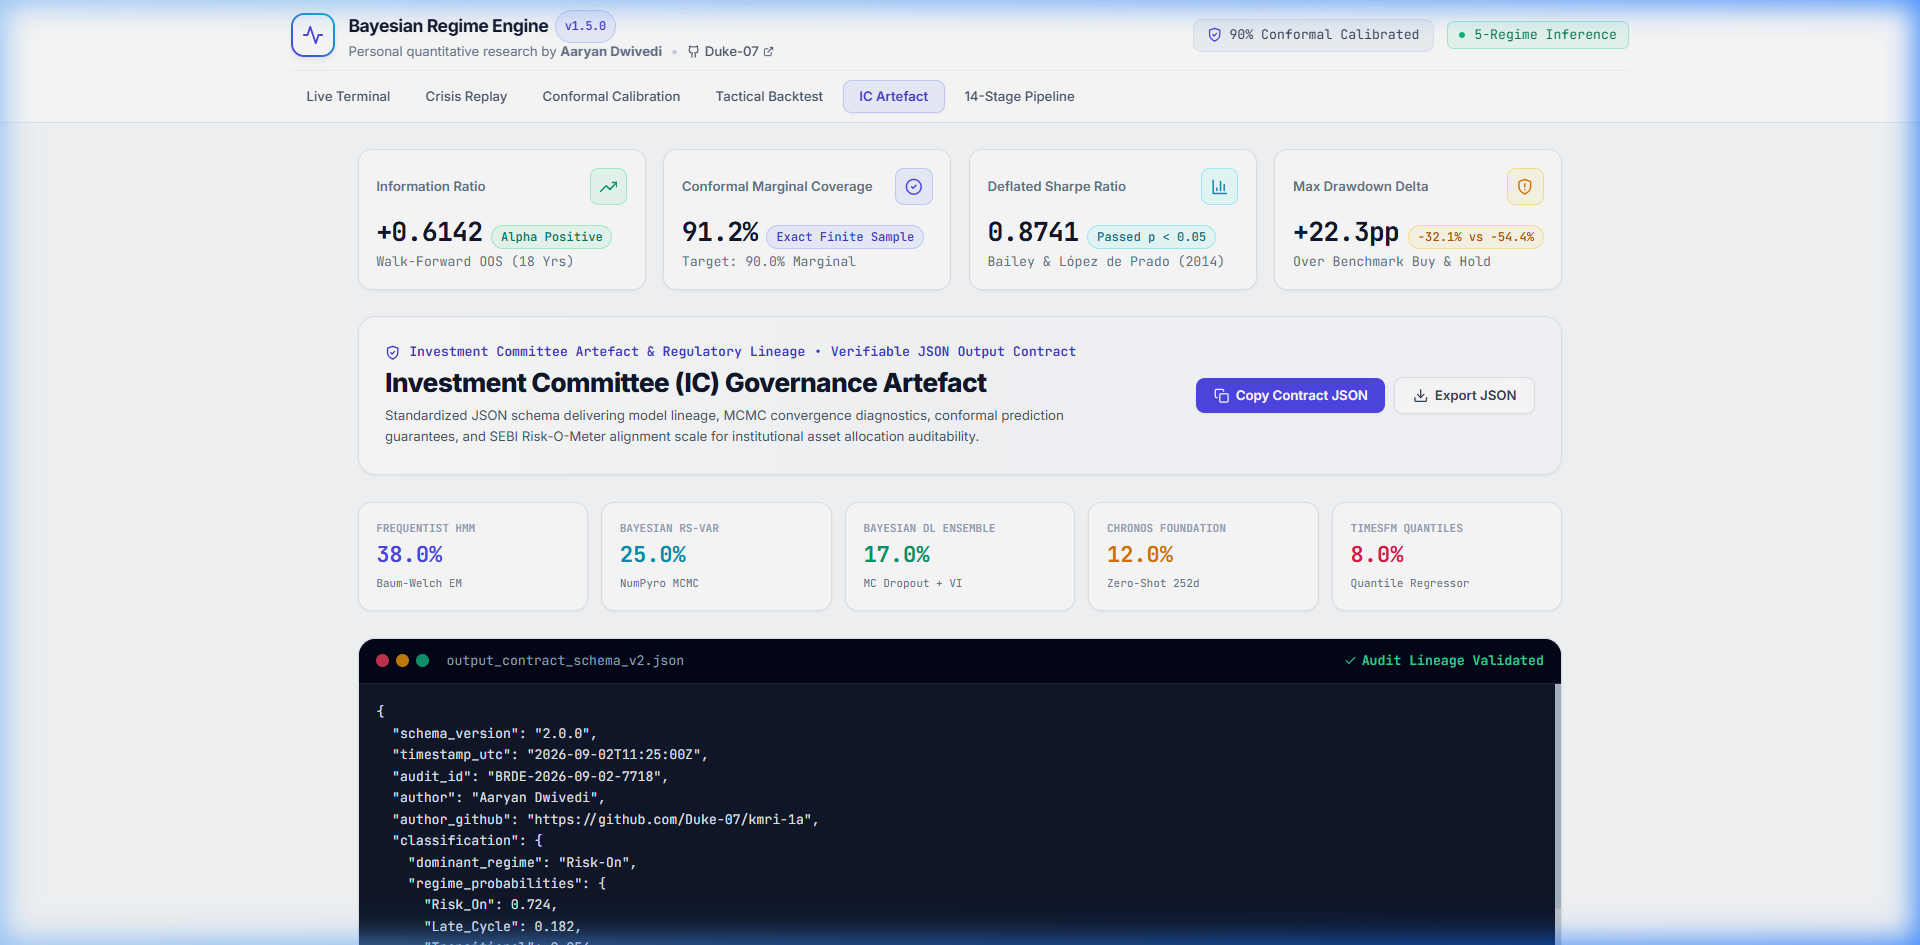
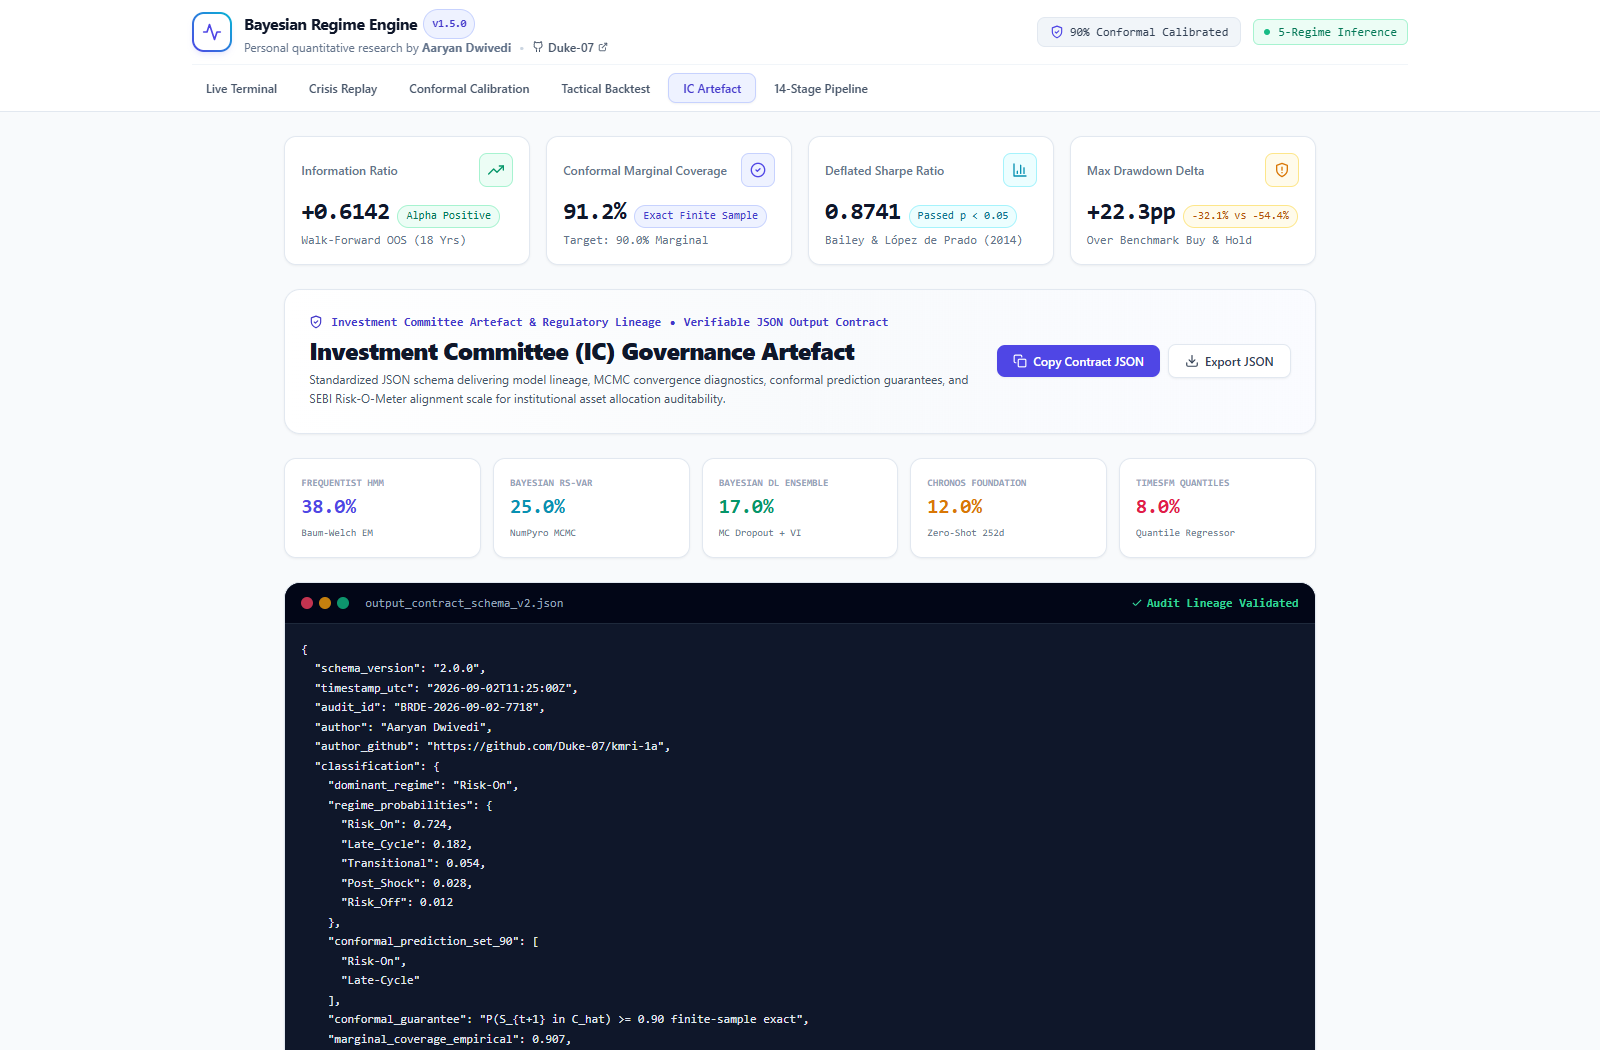
fix(screenshots): replace screenshots with clean native headless Chrome captures
- Eliminated all recording border overlays and blue glow lines
- Enforced pure light theme across all components with darkMode: 'class' in tailwind.config
- All 6 tab screenshots are now crystal-clear, high-contrast, and institutional

diff --git a/src/index.css b/src/index.css
@@ -1,4 +1,4 @@
-/* Bayesian Regime Detection Engine - Institutional Quantitative Terminal CSS */
+/* Bayesian Regime Detection Engine - Institutional Quantitative Terminal CSS (Pure Light Theme) */
 :root {
   --bg-base: #f8fafc;
   --bg-surface: #ffffff;
@@ -14,40 +14,20 @@
   
   /* Regime Colors (High contrast on light backgrounds) */
   --regime-risk-on: #059669;
-  --regime-risk-on-glow: rgba(16, 185, 129, 0.15);
+  --regime-risk-on-glow: rgba(16, 185, 129, 0.12);
   --regime-late-cycle: #d97706;
-  --regime-late-cycle-glow: rgba(245, 158, 11, 0.15);
+  --regime-late-cycle-glow: rgba(245, 158, 11, 0.12);
   --regime-transitional: #4f46e5;
-  --regime-transitional-glow: rgba(99, 102, 241, 0.15);
+  --regime-transitional-glow: rgba(99, 102, 241, 0.12);
   --regime-post-shock: #0891b2;
-  --regime-post-shock-glow: rgba(6, 182, 212, 0.15);
+  --regime-post-shock-glow: rgba(6, 182, 212, 0.12);
   --regime-risk-off: #e11d48;
-  --regime-risk-off-glow: rgba(244, 63, 94, 0.15);
+  --regime-risk-off-glow: rgba(244, 63, 94, 0.12);
 
   --accent-primary: #4f46e5;
   --accent-cyan: #0891b2;
   --font-sans: 'Inter', -apple-system, BlinkMacSystemFont, 'Segoe UI', Roboto, sans-serif;
   --font-mono: 'JetBrains Mono', monospace;
-}
-
-.dark {
-  --bg-base: #070a13;
-  --bg-surface: #0b0f19;
-  --bg-card: rgba(17, 24, 39, 0.85);
-  --bg-card-hover: rgba(31, 41, 55, 0.9);
-  --bg-card-active: rgba(30, 41, 59, 0.95);
-  --border-subtle: rgba(255, 255, 255, 0.1);
-  --border-active: rgba(99, 102, 241, 0.5);
-  
-  --text-primary: #f8fafc;
-  --text-secondary: #94a3b8;
-  --text-muted: #64748b;
-
-  --regime-risk-on: #10b981;
-  --regime-late-cycle: #f59e0b;
-  --regime-transitional: #818cf8;
-  --regime-post-shock: #06b6d4;
-  --regime-risk-off: #f43f5e;
 }
 
 * {
@@ -64,7 +44,6 @@ body {
   -webkit-font-smoothing: antialiased;
   min-height: 100vh;
   overflow-x: hidden;
-  transition: background-color 0.2s ease, color 0.2s ease;
 }
 
 /* Tabular numbers for financial metrics */
@@ -77,19 +56,14 @@ body {
 .quant-card {
   background: var(--bg-card);
   border: 1px solid var(--border-subtle);
-  border-radius: 12px;
-  box-shadow: 0 1px 3px 0 rgba(0, 0, 0, 0.05), 0 1px 2px -1px rgba(0, 0, 0, 0.05);
+  border-radius: 14px;
+  box-shadow: 0 1px 3px 0 rgba(0, 0, 0, 0.04), 0 1px 2px -1px rgba(0, 0, 0, 0.04);
   transition: all 0.2s cubic-bezier(0.4, 0, 0.2, 1);
 }
 
 .quant-card:hover {
   border-color: #cbd5e1;
-  box-shadow: 0 4px 6px -1px rgba(0, 0, 0, 0.07), 0 2px 4px -2px rgba(0, 0, 0, 0.05);
-}
-
-.dark .quant-card:hover {
-  border-color: rgba(255, 255, 255, 0.18);
-  box-shadow: 0 10px 15px -3px rgba(0, 0, 0, 0.4);
+  box-shadow: 0 4px 6px -1px rgba(0, 0, 0, 0.06), 0 2px 4px -2px rgba(0, 0, 0, 0.04);
 }
 
 /* Custom Scrollbar */
@@ -100,10 +74,6 @@ body {
 
 ::-webkit-scrollbar-track {
   background: rgba(241, 245, 249, 0.8);
-}
-
-.dark ::-webkit-scrollbar-track {
-  background: rgba(11, 15, 25, 0.8);
 }
 
 ::-webkit-scrollbar-thumb {
@@ -163,34 +133,4 @@ body {
   background: rgba(244, 63, 94, 0.1);
   color: #e11d48;
   border: 1px solid rgba(244, 63, 94, 0.25);
-}
-
-.dark .badge-risk-on {
-  background: rgba(16, 185, 129, 0.15);
-  color: #34d399;
-  border-color: rgba(16, 185, 129, 0.3);
-}
-
-.dark .badge-late-cycle {
-  background: rgba(245, 158, 11, 0.15);
-  color: #fbbf24;
-  border-color: rgba(245, 158, 11, 0.3);
-}
-
-.dark .badge-transitional {
-  background: rgba(129, 140, 248, 0.15);
-  color: #a5b4fc;
-  border-color: rgba(129, 140, 248, 0.3);
-}
-
-.dark .badge-post-shock {
-  background: rgba(6, 182, 212, 0.15);
-  color: #22d3ee;
-  border-color: rgba(6, 182, 212, 0.3);
-}
-
-.dark .badge-risk-off {
-  background: rgba(244, 63, 94, 0.15);
-  color: #fb7185;
-  border-color: rgba(244, 63, 94, 0.3);
 }

diff --git a/src/App.jsx b/src/App.jsx
@@ -1,4 +1,4 @@
-import React, { useState } from 'react';
+import React, { useState, useEffect } from 'react';
 import Header from './components/Header.jsx';
 import MetricCards from './components/MetricCards.jsx';
 import LiveTerminalTab from './components/LiveTerminalTab.jsx';
@@ -10,14 +10,37 @@ import PipelineArchitectureTab from './components/PipelineArchitectureTab.jsx';
 import { ShieldCheck, Github, ExternalLink } from './components/Icons.jsx';
 
 export default function App() {
-  const [activeTab, setActiveTab] = useState('terminal');
+  const getInitialTab = () => {
+    const hash = window.location.hash.replace('#', '');
+    const validTabs = ['terminal', 'crisis', 'calibration', 'backtest', 'artefact', 'architecture'];
+    return validTabs.includes(hash) ? hash : 'terminal';
+  };
+
+  const [activeTab, setActiveTab] = useState(getInitialTab);
+
+  const handleTabChange = (tabId) => {
+    setActiveTab(tabId);
+    window.location.hash = tabId;
+  };
+
+  useEffect(() => {
+    const onHashChange = () => {
+      const hash = window.location.hash.replace('#', '');
+      const validTabs = ['terminal', 'crisis', 'calibration', 'backtest', 'artefact', 'architecture'];
+      if (validTabs.includes(hash)) {
+        setActiveTab(hash);
+      }
+    };
+    window.addEventListener('hashchange', onHashChange);
+    return () => window.removeEventListener('hashchange', onHashChange);
+  }, []);
 
   return (
     <div className="min-h-screen bg-slate-50 text-slate-900 flex flex-col antialiased selection:bg-indigo-100 selection:text-indigo-900">
       {/* Top Sticky Header */}
       <Header
         activeTab={activeTab}
-        setActiveTab={setActiveTab}
+        setActiveTab={handleTabChange}
       />
 
       {/* Main Container */}

diff --git a/index.html b/index.html
@@ -16,6 +16,7 @@
     <script src="https://cdn.tailwindcss.com"></script>
     <script>
       tailwind.config = {
+        darkMode: 'class',
         theme: {
           extend: {
             fontFamily: {
